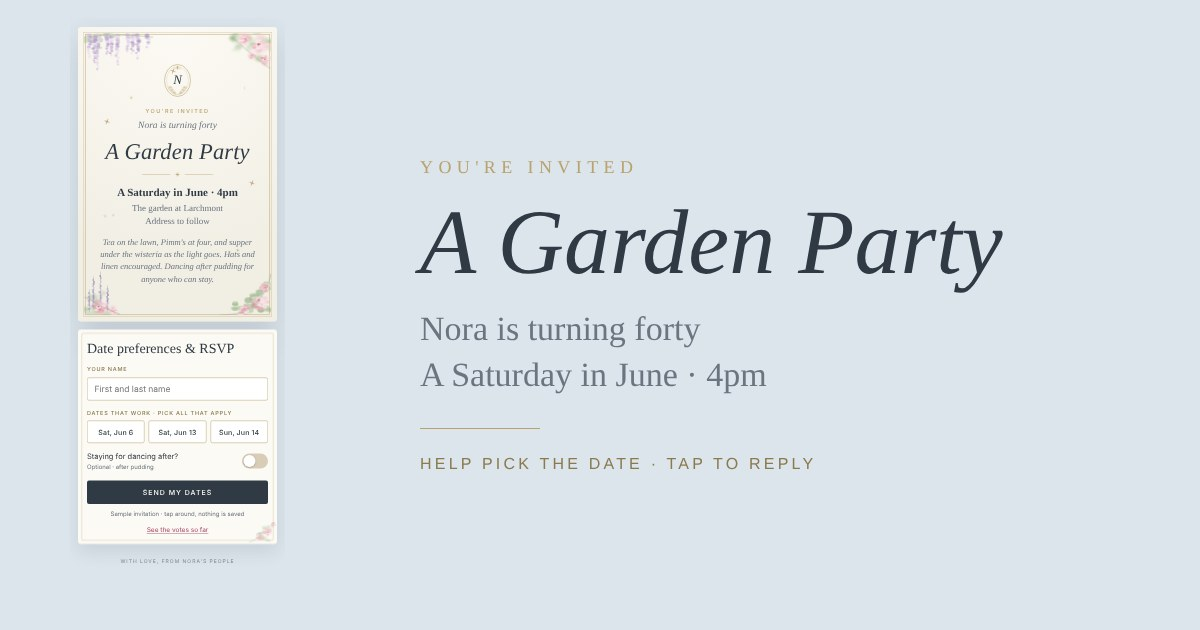
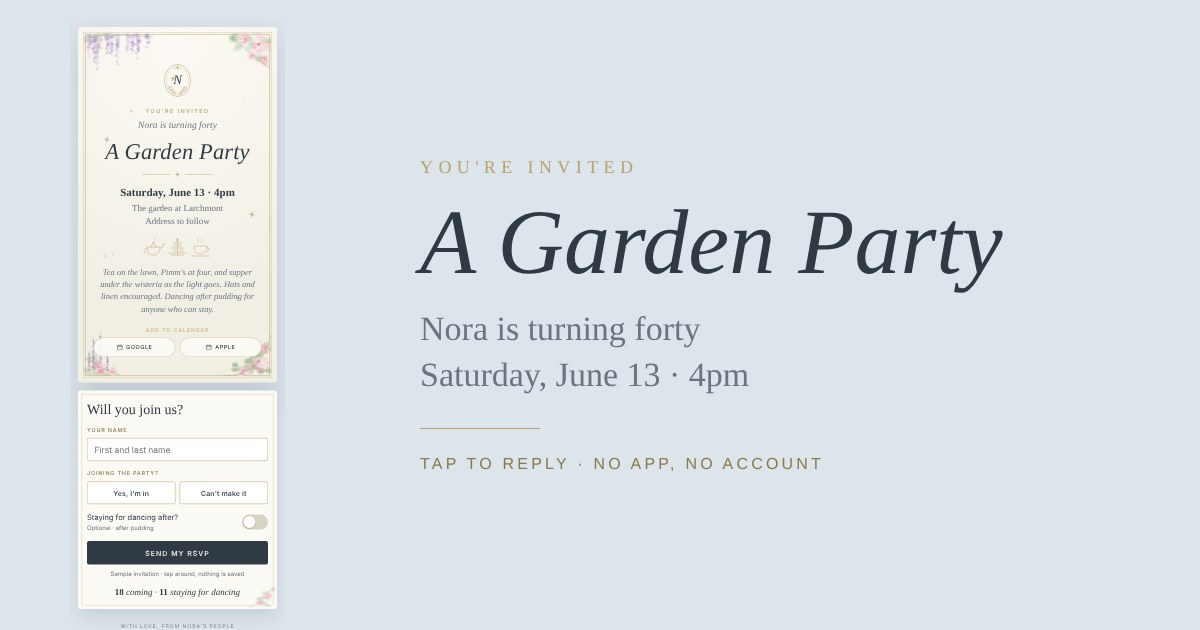
Sample: everyday RSVP with party size, dietary notes and live headcount (poll off)
Claude-Session: https://claude.ai/code/session_01PZx2BMfsgvgKPvfdH1YSxg

diff --git a/demo/index.html b/demo/index.html
@@ -8,7 +8,7 @@
 <meta charset="utf-8">
 <meta name="viewport" content="width=device-width,initial-scale=1,viewport-fit=cover">
 <meta name="theme-color" content="#DCE5EC">
-<meta name="description" content="Nora is turning forty. Tea on the lawn, Pimm's at four, supper under the wisteria. A Saturday in June. Help pick the date: June 6, 13 or 14.">
+<meta name="description" content="Nora is turning forty. Tea on the lawn, Pimm's at four, supper under the wisteria. Saturday, June 13 · 4pm. Tap to RSVP.">
 <meta property="og:type" content="website">
 <meta property="og:site_name" content="Invitations">
 <meta property="og:image" content="https://1294962213sh.github.io/demo/preview.jpg">
@@ -18,8 +18,8 @@
 <link rel="icon" href="icon.svg" type="image/svg+xml">
 <style>:root{padding-top:env(safe-area-inset-top,0px);padding-bottom:env(safe-area-inset-bottom,0px)}body{margin:0}img{max-width:100%}[hidden]{display:none!important}</style>
 <title>A Garden Party · sample invitation</title>
-<meta property="og:title" content="A Garden Party · pick a date">
-<meta property="og:description" content="Nora is turning forty. Tea on the lawn, Pimm's at four, supper under the wisteria. A Saturday in June. Help pick the date: June 6, 13 or 14.">
+<meta property="og:title" content="A Garden Party · June 13">
+<meta property="og:description" content="Nora is turning forty. Tea on the lawn, Pimm's at four, supper under the wisteria. Saturday, June 13 · 4pm. Tap to RSVP.">
 <link rel="stylesheet" href="https://fonts.googleapis.com/css2?family=Cormorant+Garamond:ital,wght@0,400;0,500;0,600;1,400;1,500&family=Jost:wght@400;500&display=swap">
 <style>
   /* Layout: one invitation card on a midnight-plum ground; RSVP below on champagne paper. Single committed look (dark). */
@@ -170,6 +170,10 @@
   .toggle-row { display: flex; align-items: center; justify-content: space-between; gap: 12px; }
   .toggle-row .q { font-size: 15px; color: var(--ink); }
   .toggle-row .q small { display: block; color: var(--ink-soft); font-size: 12px; }
+  .stepper { display: inline-flex; align-items: center; gap: 2px; border: 1px solid var(--gold); border-radius: 999px; padding: 2px; }
+  .stepper button { width: 30px; height: 26px; border: 0; border-radius: 999px; background: transparent; color: var(--ink); font: 500 18px var(--body); cursor: pointer; }
+  .stepper button:hover { background: rgba(185,162,110,.15); }
+  .stepper span { min-width: 22px; text-align: center; font: 500 15px var(--body); color: var(--ink); }
   .toggle {
     flex: none; width: 52px; height: 30px; border-radius: 999px; border: 0; cursor: pointer;
     background: #D9D3C4; position: relative; transition: background .2s;
@@ -291,7 +295,7 @@
       <p class="sub" id="sub">Nora is turning forty</p>
       <h1 id="title">A Garden Party</h1>
       <div class="orn" aria-hidden="true"><svg viewBox="0 0 10 10"><path d="M5 0 L6.2 3.8 L10 5 L6.2 6.2 L5 10 L3.8 6.2 L0 5 L3.8 3.8 Z" fill="currentColor"/></svg></div>
-      <p class="when" id="when">A Saturday in June · 4pm</p>
+      <p class="when" id="when">Saturday, June 13 · 4pm</p>
       <p class="where" id="where">The garden at Larchmont<br>Address to follow</p>
       <svg class="tea" viewBox="0 0 150 44" aria-hidden="true" fill="none" stroke="#B9A26E" stroke-width=".9" stroke-linecap="round" stroke-linejoin="round">
         <!-- teapot -->
@@ -351,6 +355,16 @@
             <button type="button" id="att-no" aria-pressed="false">Can't make it</button>
           </div>
         </div>
+        <div class="field" id="size-field" hidden>
+          <div class="toggle-row">
+            <div class="q">How many in your party?<small>Including you</small></div>
+            <div class="stepper"><button type="button" id="minus" aria-label="Fewer">−</button><span id="size">1</span><button type="button" id="plus" aria-label="More">+</button></div>
+          </div>
+        </div>
+        <div class="field" id="diet-field" hidden>
+          <label for="diet">Dietary notes · optional</label>
+          <input type="text" id="diet" name="diet" placeholder="Vegetarian, nut allergy, anything we should know">
+        </div>
         <div class="field" id="dinner-field">
           <div class="toggle-row">
             <div class="q">Staying for dancing after?<small>Optional · after pudding</small></div>
@@ -398,7 +412,7 @@ const EVENT = {
   // DATE POLL — while active, guests pick every date that works instead of a single Yes/No.
   // To close the poll: set active to false, then update start/end/dateLabel above to the winning date.
   poll: {
-    active: true,                    // sample: the poll stays open
+    active: false,                   // sample: fixed date, so the page shows the everyday RSVP
     label: "A Saturday in June · 4pm",
     entry: "",                       // no form behind the sample
     // Counts-only "Tally" tab of the sheet, published to the web as CSV (no names). Empty hides the results.
@@ -413,7 +427,7 @@ const EVENT = {
   addressDisplay: "The garden at Larchmont<br>Address to follow",
   details: "Tea on the lawn, Pimm's at four, and supper under the wisteria as the light goes. Hats and linen encouraged. Dancing after pudding for anyone who can stay.",
   // DEMO MODE — pretend vote counts shown in the chart; nothing is sent anywhere. Remove for a real event.
-  demo: { "Sat Jun 6": 5, "Sat Jun 13": 9, "Sun Jun 14": 4, dinner: 7, replies: 12 },
+  demo: { coming: 18, dinner: 11, replies: 21 },   // pretend headcount shown on the page
   // Google Form connection — where RSVPs are stored
   form: {
     action: "",
@@ -453,7 +467,9 @@ const POLL = !!(EVENT.poll && EVENT.poll.active);
 const store = "rsvp:" + EVENT.title + (POLL ? ":poll" : "");
 const listText = a => a.length < 2 ? (a[0] || "") : a.slice(0, -1).join(", ") + " and " + a[a.length - 1];
 
-let attending = null, dinner = false, picked = [], noneWork = false;
+let attending = null, dinner = false, picked = [], noneWork = false, size = 1;
+const setSize = v => { size = Math.min(6, Math.max(1, v)); $("size").textContent = size; };
+$("minus").onclick = () => setSize(size - 1); $("plus").onclick = () => setSize(size + 1);
 const setDinner = v => { dinner = v; $("dinner").setAttribute("aria-checked", String(v)); };
 $("dinner").onclick = () => setDinner(!dinner);
 
@@ -463,6 +479,7 @@ const setAtt = v => {
   $("att-yes").setAttribute("aria-pressed", v === true);
   $("att-no").setAttribute("aria-pressed", v === false);
   $("dinner-field").hidden = v === false;
+  $("size-field").hidden = v !== true; $("diet-field").hidden = v !== true;
   if (v !== true) setDinner(false);
   $("err").hidden = true;
 };
@@ -579,7 +596,7 @@ async function showTally(where, myPicks, justVoted, myDinner) {
 const headOn = !POLL && !!((EVENT.poll && EVENT.poll.resultsCsv) || EVENT.demo);
 function headLine(me, add) {
   const d = tallyData || {};
-  let coming = (d.coming || 0) + (add && me && me.attending ? 1 : 0);
+  let coming = (d.coming || 0) + (add && me && me.attending ? (me.size || 1) : 0);
   let din = (d.dinner || 0) + (add && me && me.attending && me.dinner ? 1 : 0);
   if (me && me.attending) { coming = Math.max(coming, 1); if (me.dinner) din = Math.max(din, 1); }
   if (!coming) return "";
@@ -630,8 +647,9 @@ function showThanks(s, returning) {
     h = returning
       ? (s.attending ? "You're on the list, " + first : "We have your reply, " + first)
       : (s.attending ? "See you there, " + first + "!" : "We'll miss you, " + first);
+    const who = s.size > 1 ? "You and " + (s.size - 1) + (s.size > 2 ? " guests are" : " guest are") : "You're";
     p = s.attending
-      ? (s.dinner ? "You're down for supper and dancing." : "You're down for supper.")
+      ? who + " down for the garden party" + (s.dinner ? ", and staying for dancing." : ".") + (s.diet ? " We've noted: " + s.diet + "." : "")
       : (returning ? "You said you can't make it." : "Thanks for letting us know.");
   }
   $("thanks-h").textContent = h; $("thanks-p").textContent = p;
@@ -649,7 +667,7 @@ try {
       picked = s.picked; noneWork = !!s.noneWork; syncPoll(); setDinner(!!s.dinner && !noneWork);
       showThanks(s, true);
     } else if (!POLL && typeof s.attending === "boolean") {
-      setAtt(s.attending); setDinner(!!s.dinner && s.attending);
+      setAtt(s.attending); setDinner(!!s.dinner && s.attending); setSize(s.size || 1); $("diet").value = s.diet || "";
       showThanks(s, true);
     }
   }
@@ -687,7 +705,7 @@ $("rsvp").onsubmit = async e => {
   const yes = POLL ? picked.length > 0 : attending;
   // Same name as the reply saved on this phone = a change; a different name = a new person
   let prevName = ""; try { prevName = (JSON.parse(localStorage.getItem(store) || "null") || {}).name || ""; } catch (x) {}
-  const s = { name, attending: yes, dinner: yes && dinner, picked: picked.slice(), noneWork, changed: !!prevName && prevName.trim().toLowerCase() === name.toLowerCase() };
+  const s = { name, attending: yes, dinner: yes && dinner, size: yes ? size : 0, diet: yes ? $("diet").value.trim() : "", picked: picked.slice(), noneWork, changed: !!prevName && prevName.trim().toLowerCase() === name.toLowerCase() };
   $("submit").disabled = true; $("submit").textContent = "Sending…";
 
   // Re-take the "before this vote" count right now (keeping the highest seen), so a stale early read can't hide this vote

diff --git a/invites/index.html b/invites/index.html
@@ -164,7 +164,7 @@
 
   <div>
     <div class="phone" aria-label="Sample invitation">
-      <div class="screen"><iframe src="../demo/index.html?v=4" title="Sample invitation: A Garden Supper" loading="lazy"></iframe></div>
+      <div class="screen"><iframe src="../demo/index.html?v=5" title="Sample invitation: A Garden Supper" loading="lazy"></iframe></div>
     </div>
     <p class="tap">Tap around · it's live · <a href="../demo/" target="_blank" rel="noopener">open full size</a></p>
   </div>
